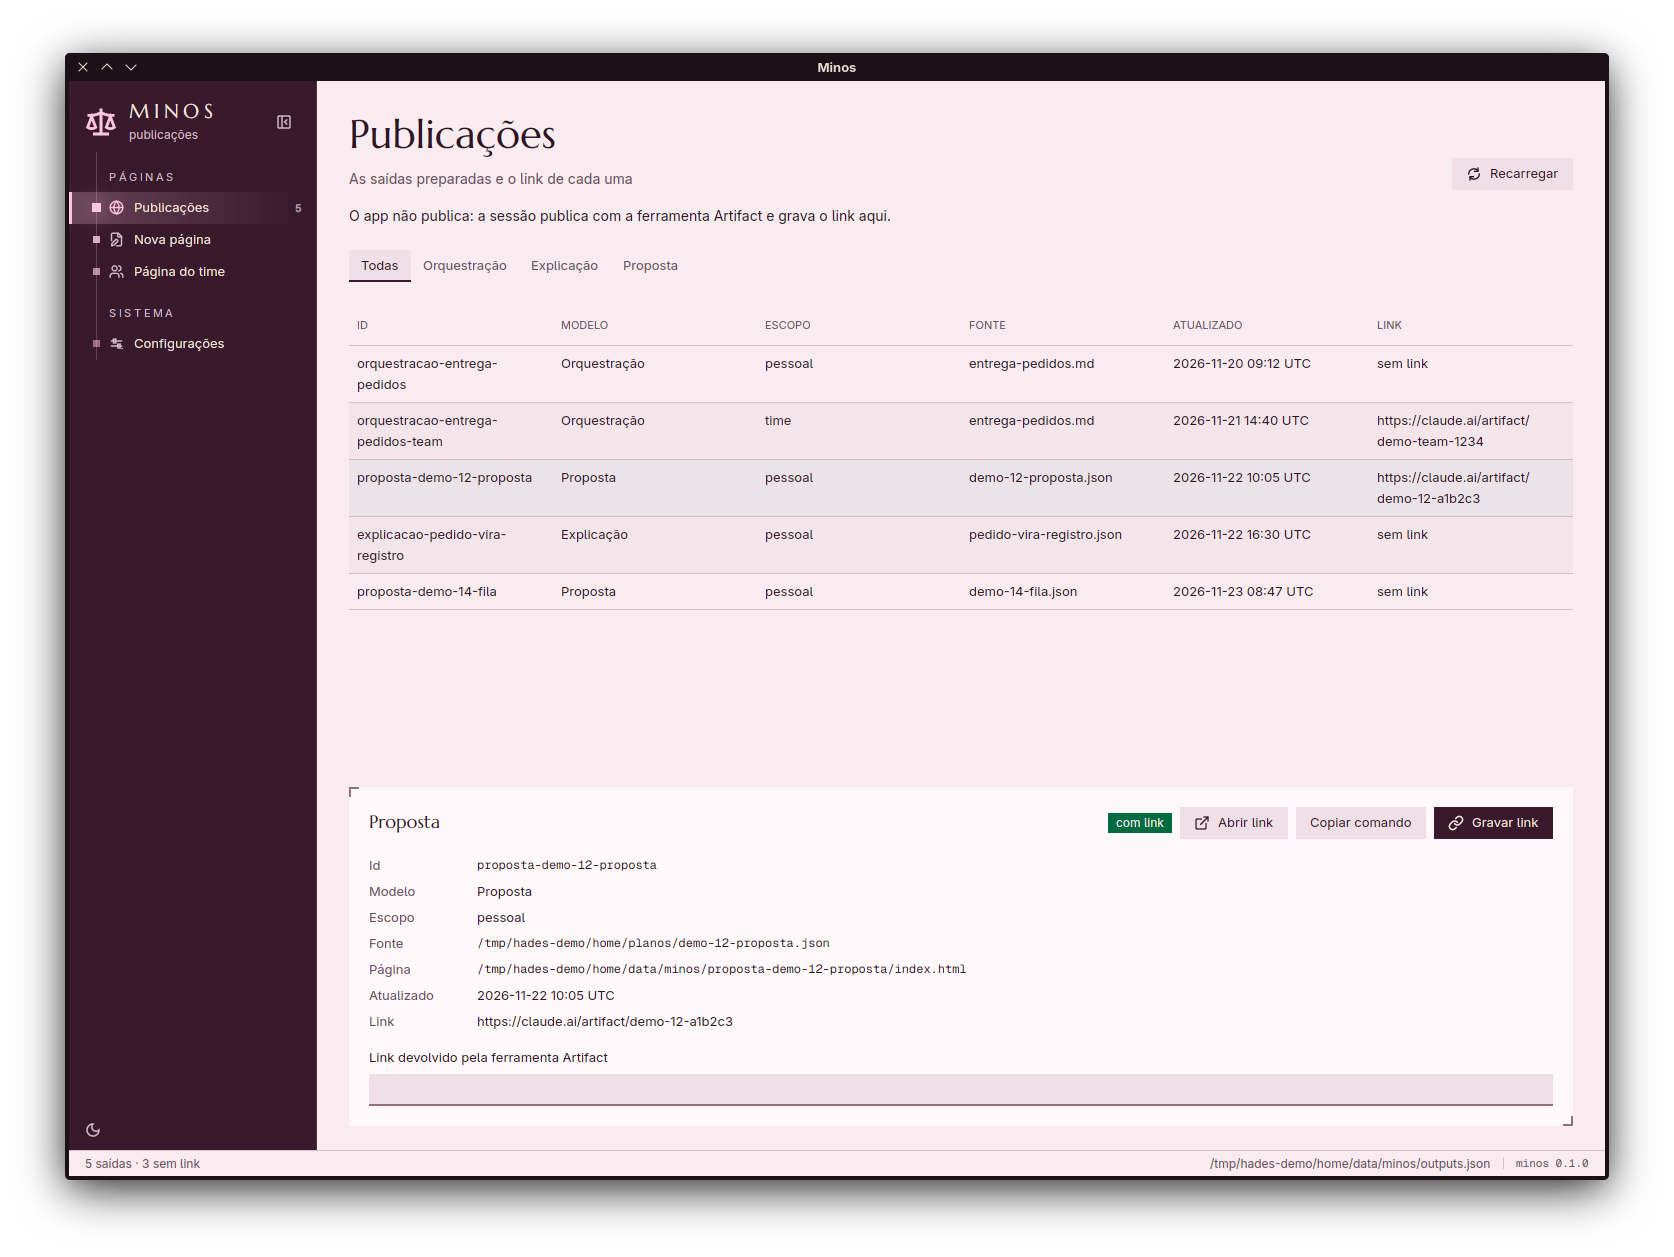
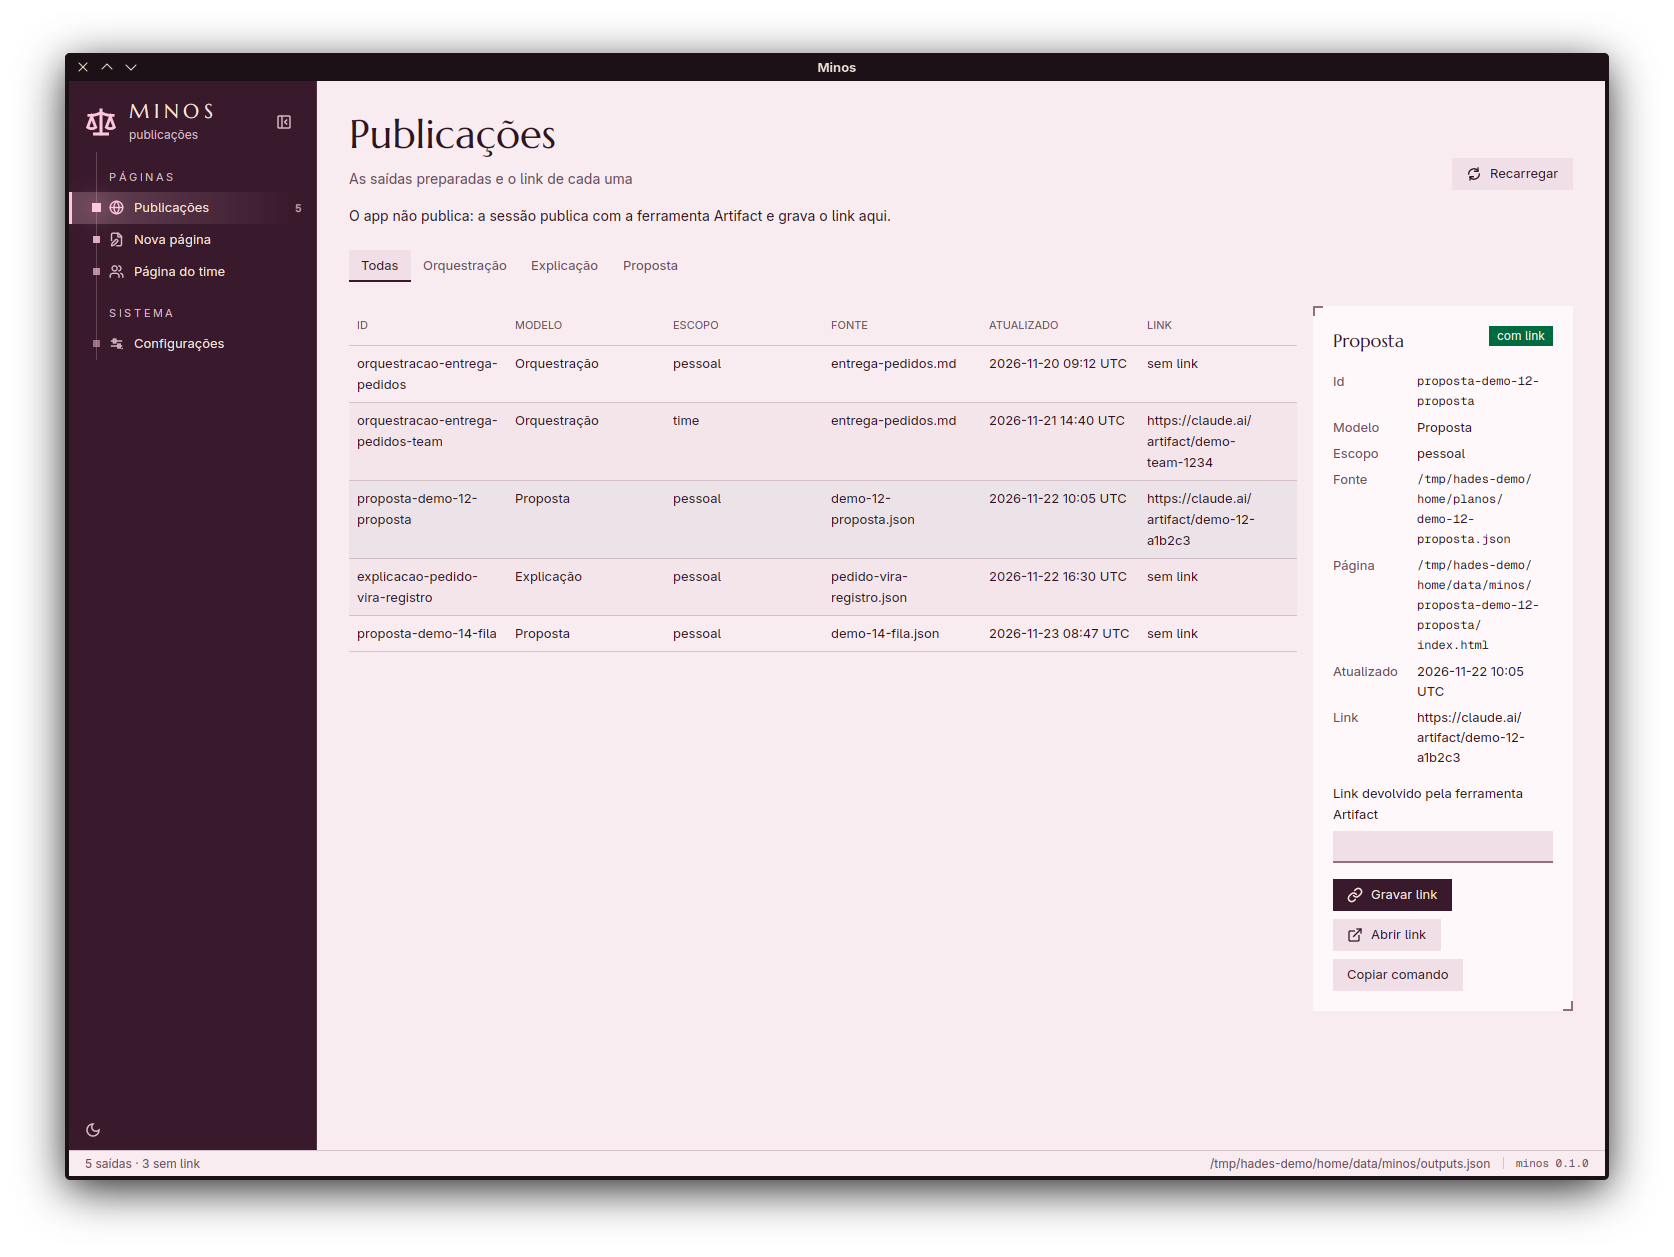
feat: inspector lateral no app do Minos e README atualizado

diff --git a/crates/minos-app/src/view.rs b/crates/minos-app/src/view.rs
@@ -8,7 +8,8 @@ use std::sync::Arc;
 
 use gpui::{
     App, AppContext, Context, Entity, FocusHandle, Focusable, InteractiveElement, IntoElement,
-    KeyDownEvent, ParentElement, Render, SharedString, Styled, Window, div, px,
+    KeyDownEvent, ParentElement, Render, SharedString, StatefulInteractiveElement, Styled, Window,
+    div, px,
 };
 use gpui_component::input::{InputEvent, InputState};
 use hades_core::Env;
@@ -19,13 +20,16 @@ use hades_ui::components::{
 };
 use hades_ui::icons::IconName;
 use hades_ui::palette;
-use hades_ui::tokens::space;
+use hades_ui::tokens::{FONT_HEADING, size, space};
 use minos_core::{Modelo, Saida};
 
 use crate::config::{self, ConfigLocal, FonteDeConfig};
 use crate::nova::{EstadoPrevia, Rascunho};
 use crate::service::{self, Dados, Gerado};
 use crate::vm::{self, COLUNAS_PUBLICACOES, COLUNAS_TIME, Filtro, Linha, Tarefa, Tela};
+
+/// `.body.ins` do design: o detalhe da publicação fica num painel lateral desta largura.
+const LARGURA_INSPECTOR: f32 = 260.0;
 
 pub struct MinosView {
     env: Env,
@@ -346,7 +350,7 @@ impl MinosView {
                 .into_any_element();
         };
         let meta = MetaList::new()
-            .label_width(96.0)
+            .label_width(72.0)
             .mono("Id", id.clone())
             .row("Modelo", s.model.title())
             .row("Escopo", vm::rotulo_do_escopo(s.scope))
@@ -364,21 +368,29 @@ impl MinosView {
         } else {
             "Abrir página"
         };
-        let mut cartao = Card::new()
-            .title(s.model.title())
-            .status(StatusBadge::new(
-                if s.url.is_some() {
-                    "com link"
-                } else {
-                    vm::SEM_LINK
-                },
-                if s.url.is_some() {
-                    hades_ui::Tone::Ok
-                } else {
-                    hades_ui::Tone::Neutral
-                },
-            ))
-            .child(meta);
+        let (rotulo_link, tom_link) = if s.url.is_some() {
+            ("com link", hades_ui::Tone::Ok)
+        } else {
+            (vm::SEM_LINK, hades_ui::Tone::Neutral)
+        };
+        let titulo = div()
+            .flex()
+            .items_start()
+            .gap(px(space::MD))
+            .child(
+                div()
+                    .flex_1()
+                    .min_w_0()
+                    .font_family(FONT_HEADING)
+                    .text_size(px(size::SECTION))
+                    .child(s.model.title()),
+            )
+            .child(
+                div()
+                    .flex_none()
+                    .child(StatusBadge::new(rotulo_link, tom_link)),
+            );
+        let mut cartao = Card::new().child(titulo).child(meta);
         if let Some(campo) = &self.link {
             cartao = cartao.child(
                 TextField::new(campo)
@@ -390,8 +402,18 @@ impl MinosView {
             cartao = cartao.child(TermBlock::new().line(g.clone()));
         }
         let gravar = cx.entity();
-        cartao
-            .action(
+        let acoes = div()
+            .flex()
+            .flex_wrap()
+            .gap(px(space::SM))
+            .child(
+                Button::new("gravar-link", "Gravar link")
+                    .primary()
+                    .icon(IconName::Link)
+                    .loading(self.t_link.carregando())
+                    .on_click(move |_, _, cx| gravar.update(cx, |v, cx| v.gravar_link(cx))),
+            )
+            .child(
                 Button::new("abrir", rotulo_abrir)
                     .icon(IconName::ExternalLink)
                     .on_click(move |_, _, cx| {
@@ -399,19 +421,12 @@ impl MinosView {
                         e.update(cx, |v, cx| v.abrir(alvo, cx));
                     }),
             )
-            .action(
+            .child(
                 CopyButton::new("copiar-link", vm::comando_do_link(&id))
                     .label("Copiar comando")
                     .copied_label("Copiado"),
-            )
-            .action(
-                Button::new("gravar-link", "Gravar link")
-                    .primary()
-                    .icon(IconName::Link)
-                    .loading(self.t_link.carregando())
-                    .on_click(move |_, _, cx| gravar.update(cx, |v, cx| v.gravar_link(cx))),
-            )
-            .into_any_element()
+            );
+        cartao.child(acoes).into_any_element()
     }
 
     fn tela_publicacoes(&self, cx: &mut Context<Self>) -> Page {
@@ -449,10 +464,21 @@ impl MinosView {
             "Nenhuma publicação deste modelo",
             cx,
         );
-        pagina
-            .child(filtro)
-            .fill_child(tabela)
-            .child(self.detalhe(cx))
+        let corpo = div()
+            .flex()
+            .flex_1()
+            .min_h_0()
+            .gap(px(space::LG))
+            .child(div().flex().flex_col().flex_1().min_w_0().child(tabela))
+            .child(
+                div()
+                    .id("inspector")
+                    .flex_none()
+                    .w(px(LARGURA_INSPECTOR))
+                    .overflow_y_scroll()
+                    .child(self.detalhe(cx)),
+            );
+        pagina.child(filtro).fill_child(corpo)
     }
 
     fn tela_time(&self, cx: &mut Context<Self>) -> Page {

diff --git a/README.md b/README.md
@@ -10,7 +10,17 @@ Minos: ferramenta do Hades, reescrita em Rust.
 
 ## Estado
 
-F0, em construção. Só o esqueleto do workspace existe; nada da ferramenta foi portado ainda.
+- **CLI:** o binário `minos` cobre os comandos do Minos do Hades (`list`, `schema`, `publish`, `link` e `open`). A paridade com
+  a versão em TypeScript roda no CI e trava o merge quando diverge: 166 de 166 casos iguais.
+- **App:** o `minos-app` tem as 4 telas (Publicações, Nova página, Página do time e Configurações).
+- **Ligar no Hades:** a flag `HADES_MINOS_IMPL` no Hades-Skill, que fará o `hades minos …` chamar o binário `minos`,
+  ainda está a caminho. Até lá, o Hades usa a versão em TypeScript.
+
+## Limitações conhecidas
+
+- **X11:** sob X11 (ou Xwayland), a tela às vezes fica no primeiro quadro ("carregando…") depois que os dados já
+  chegaram: o estado da view está certo e a janela não repinta. Não aparece no Wayland nativo. O defeito é do backend
+  x11 do gpui, e o Minos não tem contorno para ele.
 
 ## Capturas
 
@@ -18,7 +28,7 @@ O `minos-app` nos temas claro e escuro. Os dados são fictícios, montados num H
 
 | Tela | Claro | Escuro |
 | --- | --- | --- |
-| Publicações, com o detalhe de uma saída aberto | ![Publicações, tema claro](docs/identidade/minos-publicacoes-claro.png) | ![Publicações, tema escuro](docs/identidade/minos-publicacoes-escuro.png) |
+| Publicações, com o detalhe de uma saída aberto no painel lateral | ![Publicações, tema claro](docs/identidade/minos-publicacoes-claro.png) | ![Publicações, tema escuro](docs/identidade/minos-publicacoes-escuro.png) |
 | Nova página, com a prévia de uma proposta | ![Nova página, tema claro](docs/identidade/minos-nova-claro.png) | ![Nova página, tema escuro](docs/identidade/minos-nova-escuro.png) |
 | Nova página, com a fonte recusada pelo modelo | ![Nova página com recusa, tema claro](docs/identidade/minos-nova-recusa-claro.png) | ![Nova página com recusa, tema escuro](docs/identidade/minos-nova-recusa-escuro.png) |
 | Página do time | ![Página do time, tema claro](docs/identidade/minos-time-claro.png) | ![Página do time, tema escuro](docs/identidade/minos-time-escuro.png) |
